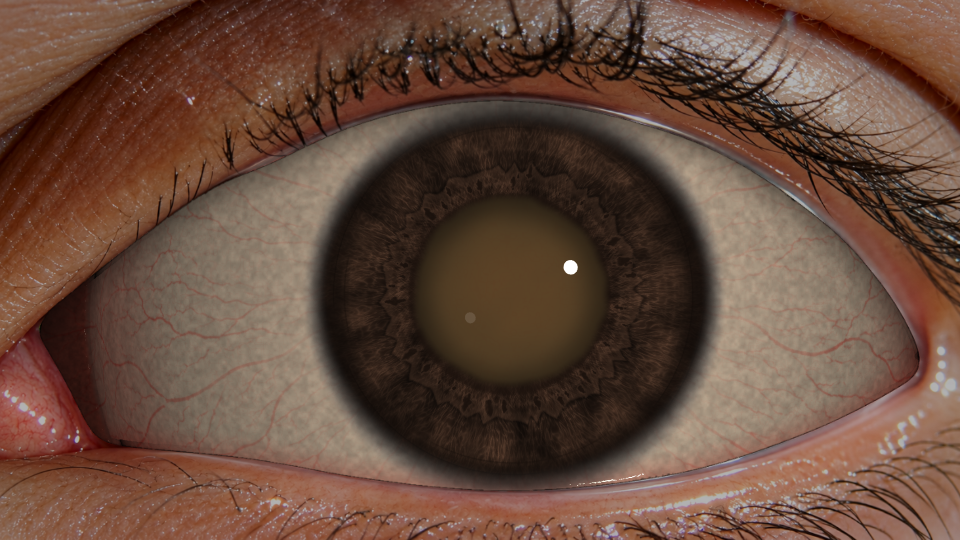
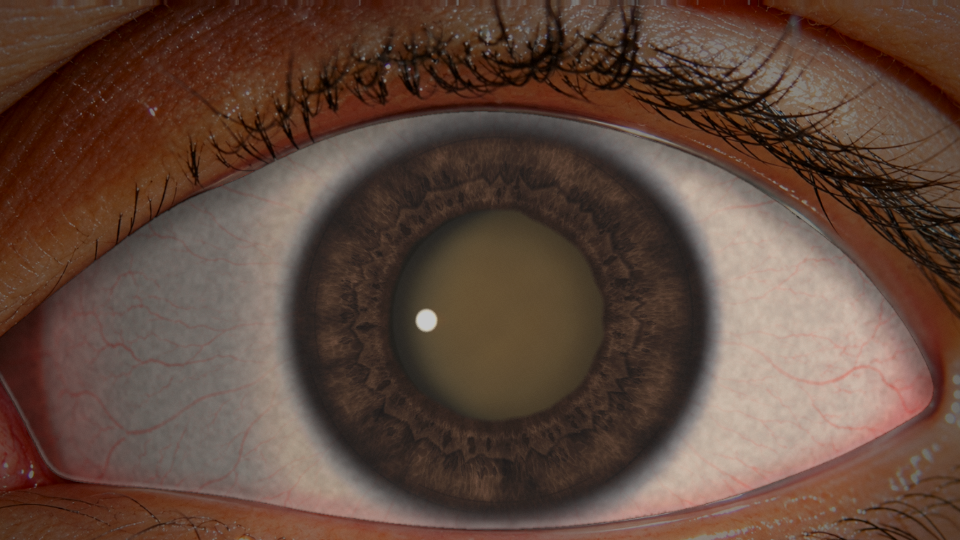
README: show a grade 2 nuclear cataract

diff --git a/README.md b/README.md
@@ -11,10 +11,10 @@ A browser-based slit-lamp simulator for trainee ophthalmologists.</p>
   <img src="docs/readme/patient-screen.png" width="100%" alt="Patient screen: a seated patient behind the slit lamp, with the patient's opening words in a conversation panel and a Start Simulation button">
 </p>
 <p align="center">
-  <img src="docs/readme/cataract.png" width="49%" alt="Rendered eye with an advanced nuclear cataract: a brown lens behind the pupil">
+  <img src="docs/readme/cataract.png" width="49%" alt="Rendered eye with a grade 2 nuclear cataract: a soft yellow-brown haze in the lens behind the pupil">
   <img src="docs/readme/fundus.png" width="49%" alt="Rendered fundus through a 90D lens: a pale, deeply cupped optic disc with retinal vessels">
 </p>
-<p align="center"><sub>Top: the patient screen, where the history starts. Left: an advanced nuclear cataract. Right: the fundus in advanced glaucoma, seen through a 90D lens, so the image is inverted. Both eyes are rendered, not photographed.</sub></p>
+<p align="center"><sub>Top: the patient screen, where the history starts. Left: a grade 2 nuclear cataract. Right: the fundus in advanced glaucoma, seen through a 90D lens, so the image is inverted. Both eyes are rendered, not photographed.</sub></p>
 
 > **Training prototype, not a medical device.** It must not be used to diagnose or treat real patients. An ophthalmologist has validated the cataract and conjunctivitis cases and some of the glaucoma cases. Other cases have not had that review. See [Limitations](#limitations).
 
